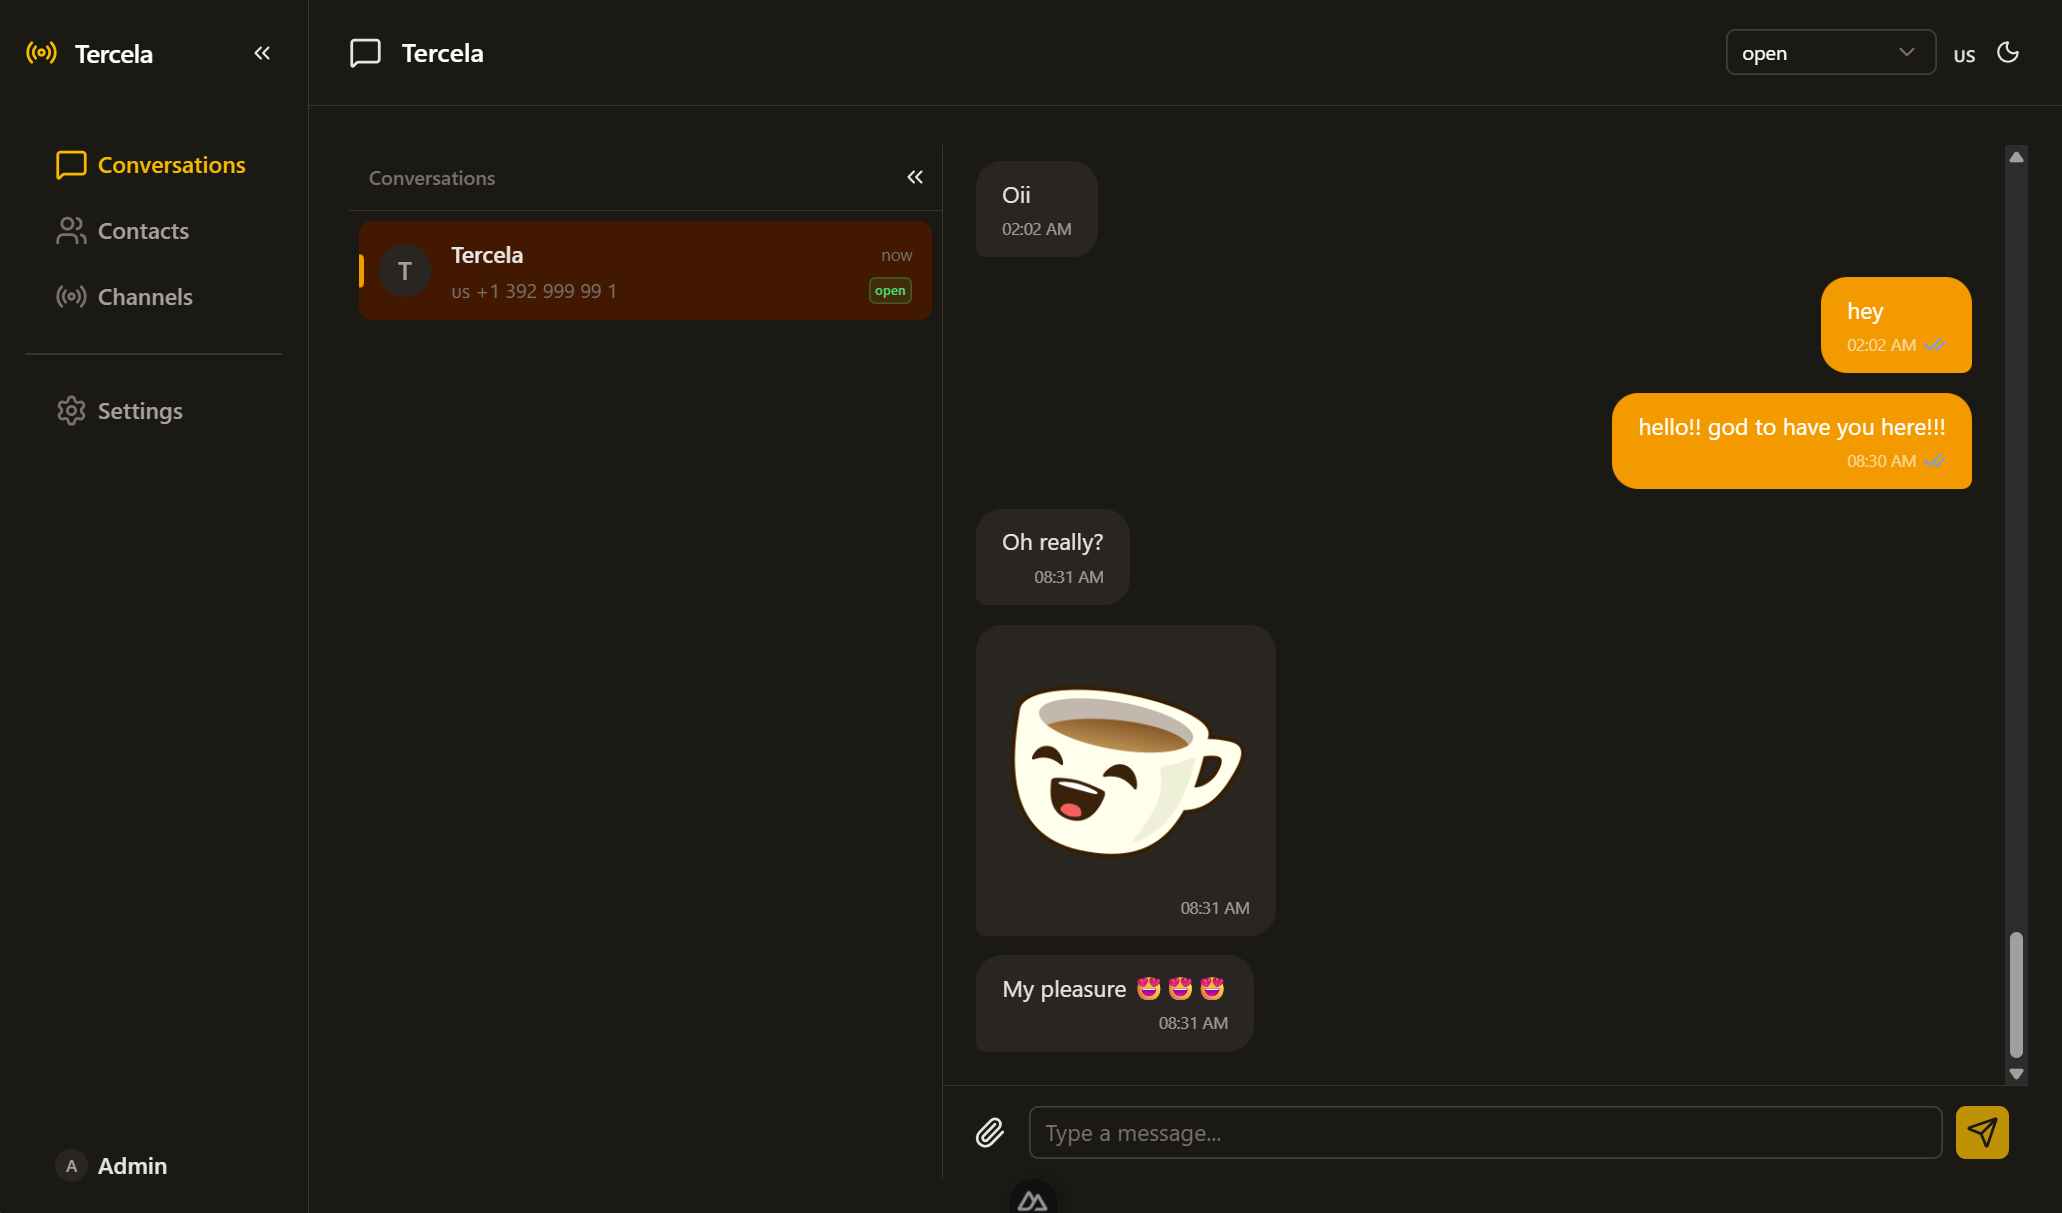
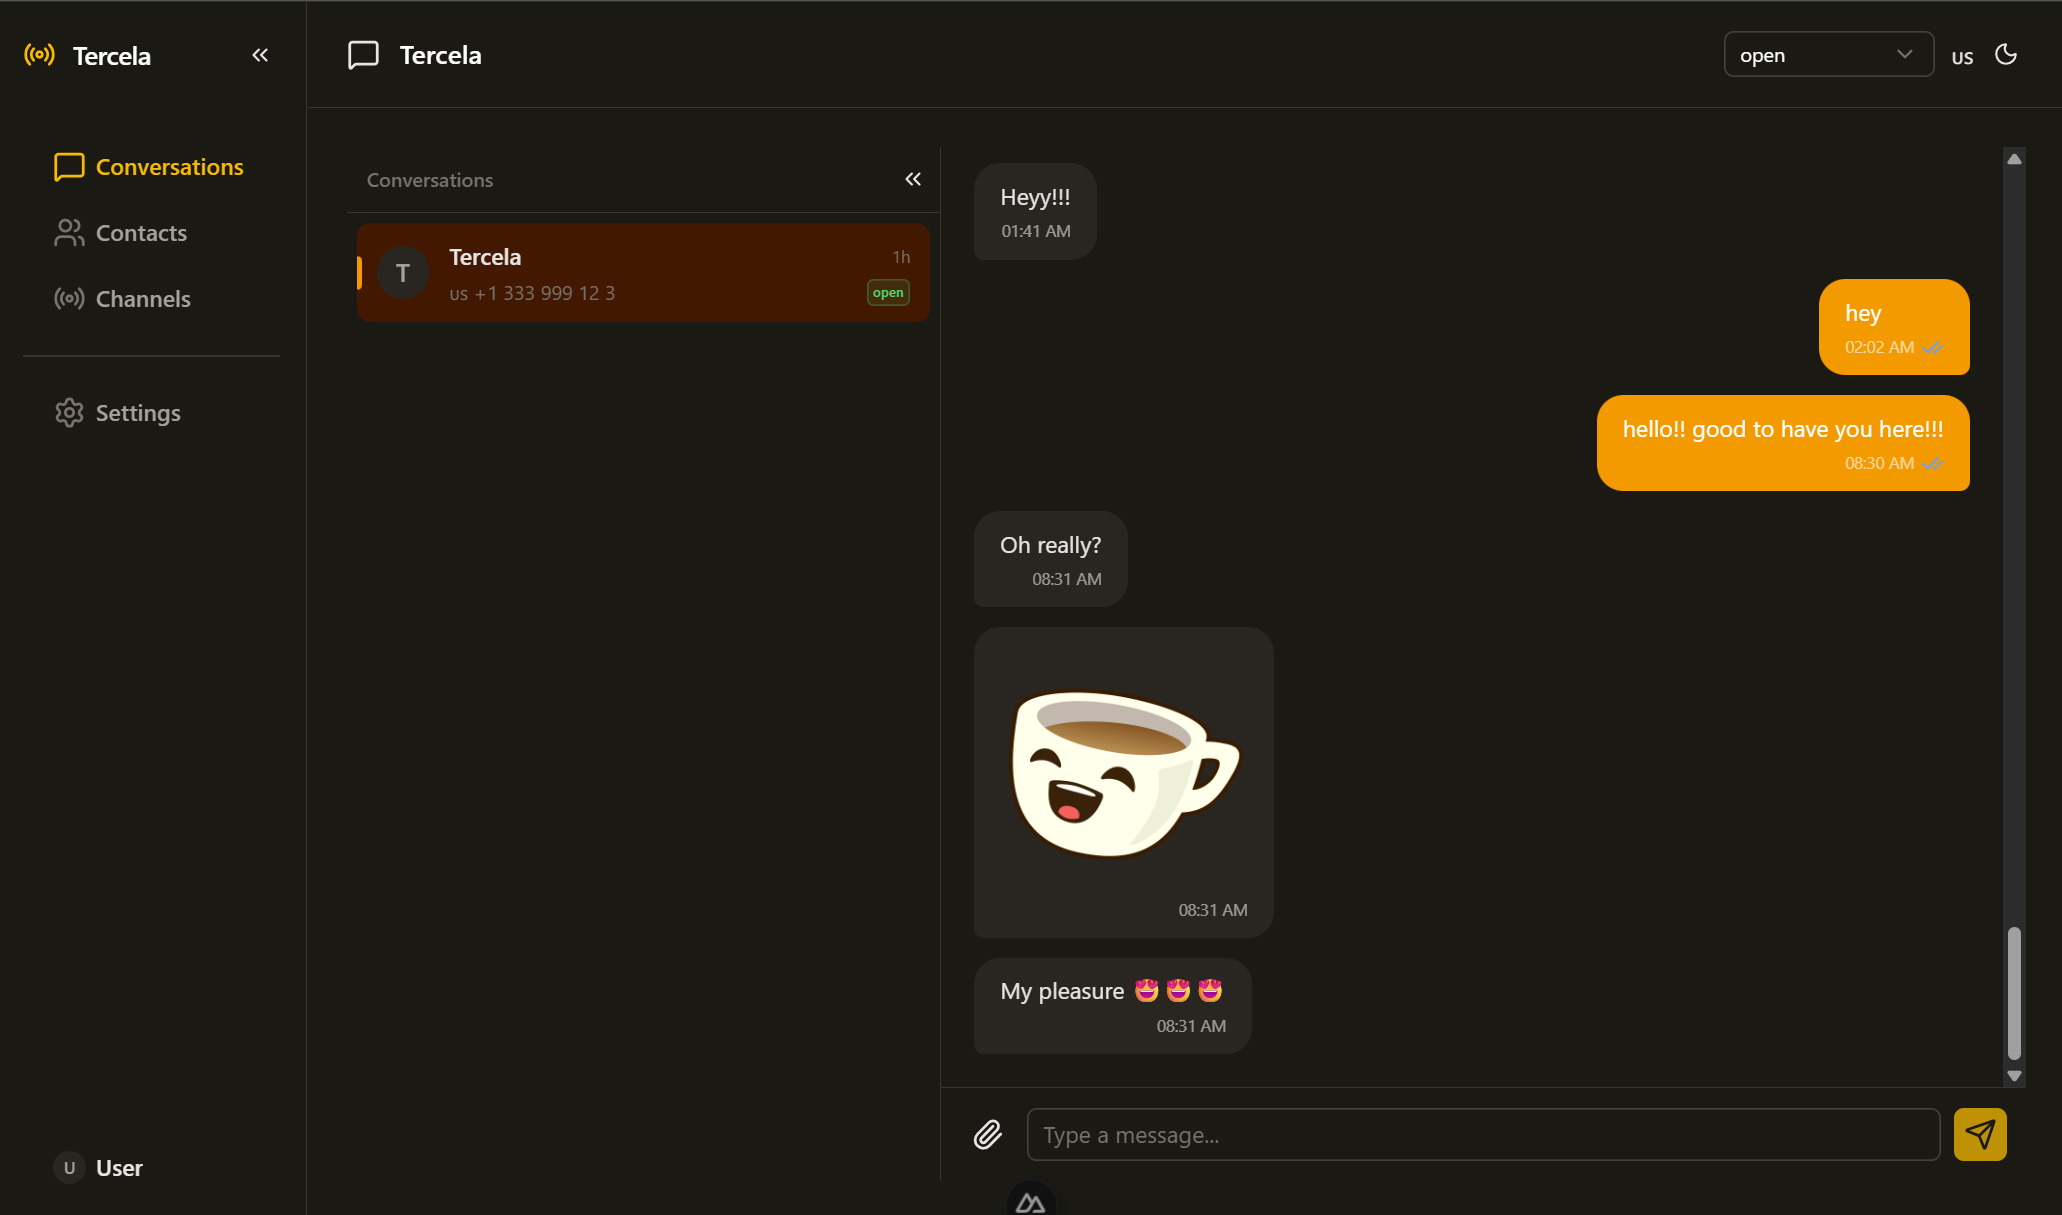
Improve README with better structure and updated screenshot
Reorganize features into sections, add quick start for both Docker
and manual setup, add scripts table, roadmap, and contributing link.
Update repo URL from terglos-dev to tags-dev. Refresh chat screenshot.

diff --git a/README.md b/README.md
@@ -7,31 +7,43 @@
 Connect channels like WhatsApp, manage conversations in real time, and organize contacts — all in a unified interface.
 
 [![License: AGPL v3](https://img.shields.io/badge/License-AGPL_v3-blue.svg)](https://www.gnu.org/licenses/agpl-3.0)
+[![GitHub Stars](https://img.shields.io/github/stars/tags-dev/tercela?style=social)](https://github.com/tags-dev/tercela)
 [![Bun](https://img.shields.io/badge/runtime-Bun-f9f1e1?logo=bun&logoColor=000)](https://bun.sh)
 [![Hono](https://img.shields.io/badge/api-Hono-E36002?logo=hono&logoColor=fff)](https://hono.dev)
 [![Nuxt](https://img.shields.io/badge/frontend-Nuxt_4-00DC82?logo=nuxt.js&logoColor=fff)](https://nuxt.com)
 [![PostgreSQL](https://img.shields.io/badge/database-PostgreSQL-4169E1?logo=postgresql&logoColor=fff)](https://www.postgresql.org)
 [![Drizzle ORM](https://img.shields.io/badge/orm-Drizzle-C5F74F?logo=drizzle&logoColor=000)](https://orm.drizzle.team)
 
+<img src=".github/assets/chat.png" alt="Tercela Inbox" width="720" />
+
+[Features](#features) · [Quick Start](#quick-start) · [API Docs](#api-reference) · [Contributing](CONTRIBUTING.md) · [Roadmap](#roadmap)
+
 </div>
 
-<div align="center">
-  <img src=".github/assets/chat.png" alt="Tercela Inbox" width="720" />
-</div>
+---
 
 ## Features
 
+### Messaging
+
 - **Omnichannel inbox** — Manage all conversations from a single dashboard
 - **WhatsApp integration** — Send and receive messages via WhatsApp Cloud API
-- **Message templates** — Create, view, edit and sync WhatsApp message templates with Meta
 - **Real-time updates** — WebSocket-powered live messaging
-- **Channel adapter pattern** — Extensible architecture to add new channels (Instagram, Webchat, etc.)
+- **Message templates** — Create, edit and sync WhatsApp message templates with Meta
+- **Media support** — S3-compatible storage for images, audio, video and documents
+
+### Management
+
 - **Contact management** — Centralized contact database with metadata
 - **Agent assignment** — Route conversations to team members
-- **Media storage** — S3-compatible storage for images, audio, video and documents
+- **Channel adapter pattern** — Extensible architecture to add new channels
+
+### Developer Experience
+
 - **REST API with OpenAPI docs** — Interactive API reference via Scalar
 - **Automatic migrations** — Versioned database migrations applied on boot
 - **Docker-ready** — One command to run the entire stack
+- **Monorepo** — Clean separation of API, frontend and shared packages
 
 ## Tech Stack
 
@@ -43,45 +55,47 @@ Connect channels like WhatsApp, manage conversations in real time, and organize 
 | Real-time | Bun native WebSocket |
 | Auth | JWT (HS256) |
 
-## Prerequisites
+## Quick Start
 
-- [Bun](https://bun.sh) >= 1.3
-- [PostgreSQL](https://www.postgresql.org/) 15+ **or** [Docker](https://www.docker.com/)
-
-## Quick Start with Docker
+### With Docker (fastest)
 
 ```bash
-git clone https://github.com/terglos-dev/tercela.git
+git clone https://github.com/tags-dev/tercela.git
 cd tercela
 cp .env.example .env
 docker compose up -d
 ```
 
-Open http://localhost:3000 — API docs at http://localhost:3333/reference.
-
-## Quick Start without Docker
+### Without Docker
 
 ```bash
-# 1. Install dependencies
+git clone https://github.com/tags-dev/tercela.git
+cd tercela
 bun install
-
-# 2. Set up environment
-cp .env.example .env
-# Edit .env with your DATABASE_URL and JWT_SECRET
-
-# 3. Start in dev mode (auto-creates tables and seeds)
+cp .env.example .env    # edit with your DATABASE_URL and JWT_SECRET
 bun run dev
 ```
 
-Open http://localhost:3000 — API docs at http://localhost:3333/reference.
+Open **http://localhost:3000** — API docs at **http://localhost:3333/reference**.
 
-## Default Credentials
+**Default login:** `admin@tercela.com` / `admin123` — change immediately in production.
 
-| Email | Password |
+## Scripts
+
+| Command | Description |
 |---|---|
-| admin@tercela.com | admin123 |
+| `bun run dev` | Start API + Web in dev mode |
+| `bun run dev:api` | Start API only |
+| `bun run dev:web` | Start frontend only |
+| `bun run db:generate` | Generate migration from schema changes |
+| `bun run db:migrate` | Apply pending migrations |
+| `bun run db:seed` | Seed database with initial data |
+| `bun run docker:up` | Start all services via Docker |
+| `bun run docker:down` | Stop Docker services |
 
-> Change these immediately in production.
+## API Reference
+
+With the server running, open **http://localhost:3333/reference** for the interactive API documentation powered by [Scalar](https://scalar.com).
 
 ## Project Structure
 
@@ -110,24 +124,8 @@ tercela/
 └── package.json
 ```
 
-## Scripts
-
-| Command | Description |
-|---|---|
-| `bun run dev` | Start API + Web in dev mode |
-| `bun run dev:api` | Start API only |
-| `bun run dev:web` | Start frontend only |
-| `bun run db:generate` | Generate migration from schema changes |
-| `bun run db:migrate` | Apply pending migrations |
-| `bun run db:seed` | Seed database with initial data |
-| `bun run docker:up` | Start all services via Docker |
-| `bun run docker:down` | Stop Docker services |
-
-## API Reference
-
-With the server running, open http://localhost:3333/reference for the interactive API documentation (Scalar).
-
-## Database Schemas
+<details>
+<summary><strong>Database Schemas</strong></summary>
 
 Tables are organized into named PostgreSQL schemas:
 
@@ -140,7 +138,10 @@ Tables are organized into named PostgreSQL schemas:
 | `config` | settings | Application settings |
 | `storage` | media | Media file references |
 
-## Environment Variables
+</details>
+
+<details>
+<summary><strong>Environment Variables</strong></summary>
 
 | Variable | Description | Default |
 |---|---|---|
@@ -151,12 +152,32 @@ Tables are organized into named PostgreSQL schemas:
 | `WHATSAPP_ACCESS_TOKEN` | WhatsApp Cloud API access token | — |
 | `WHATSAPP_PHONE_NUMBER_ID` | WhatsApp phone number ID | — |
 
+</details>
+
+## Roadmap
+
+- [ ] AI / Chatbot support
+- [ ] Multi-language dashboard
+- [ ] Webchat widget (embed on any website)
+- [ ] Analytics dashboard
+- [ ] Email channel
+
+Have an idea? [Open a feature request](https://github.com/tags-dev/tercela/issues/new?template=feature_request.yml).
+
 ## Contributing
 
-Contributions are welcome! Please open an issue or submit a pull request.
+Contributions are welcome! Check out the [Contributing Guide](.github/CONTRIBUTING.md) to get started.
+
+Whether it's a bug fix, new feature, or documentation improvement — every contribution matters.
 
 ## License
 
-This project is licensed under the [GNU Affero General Public License v3.0](LICENSE).
+This project is licensed under the [GNU Affero General Public License v3.0](LICENSE). See [NOTICE](NOTICE) for attribution details.
 
-See [NOTICE](NOTICE) for attribution details.
+---
+
+<div align="center">
+
+If Tercela is useful to you, consider giving it a :star: — it helps others discover the project!
+
+</div>
